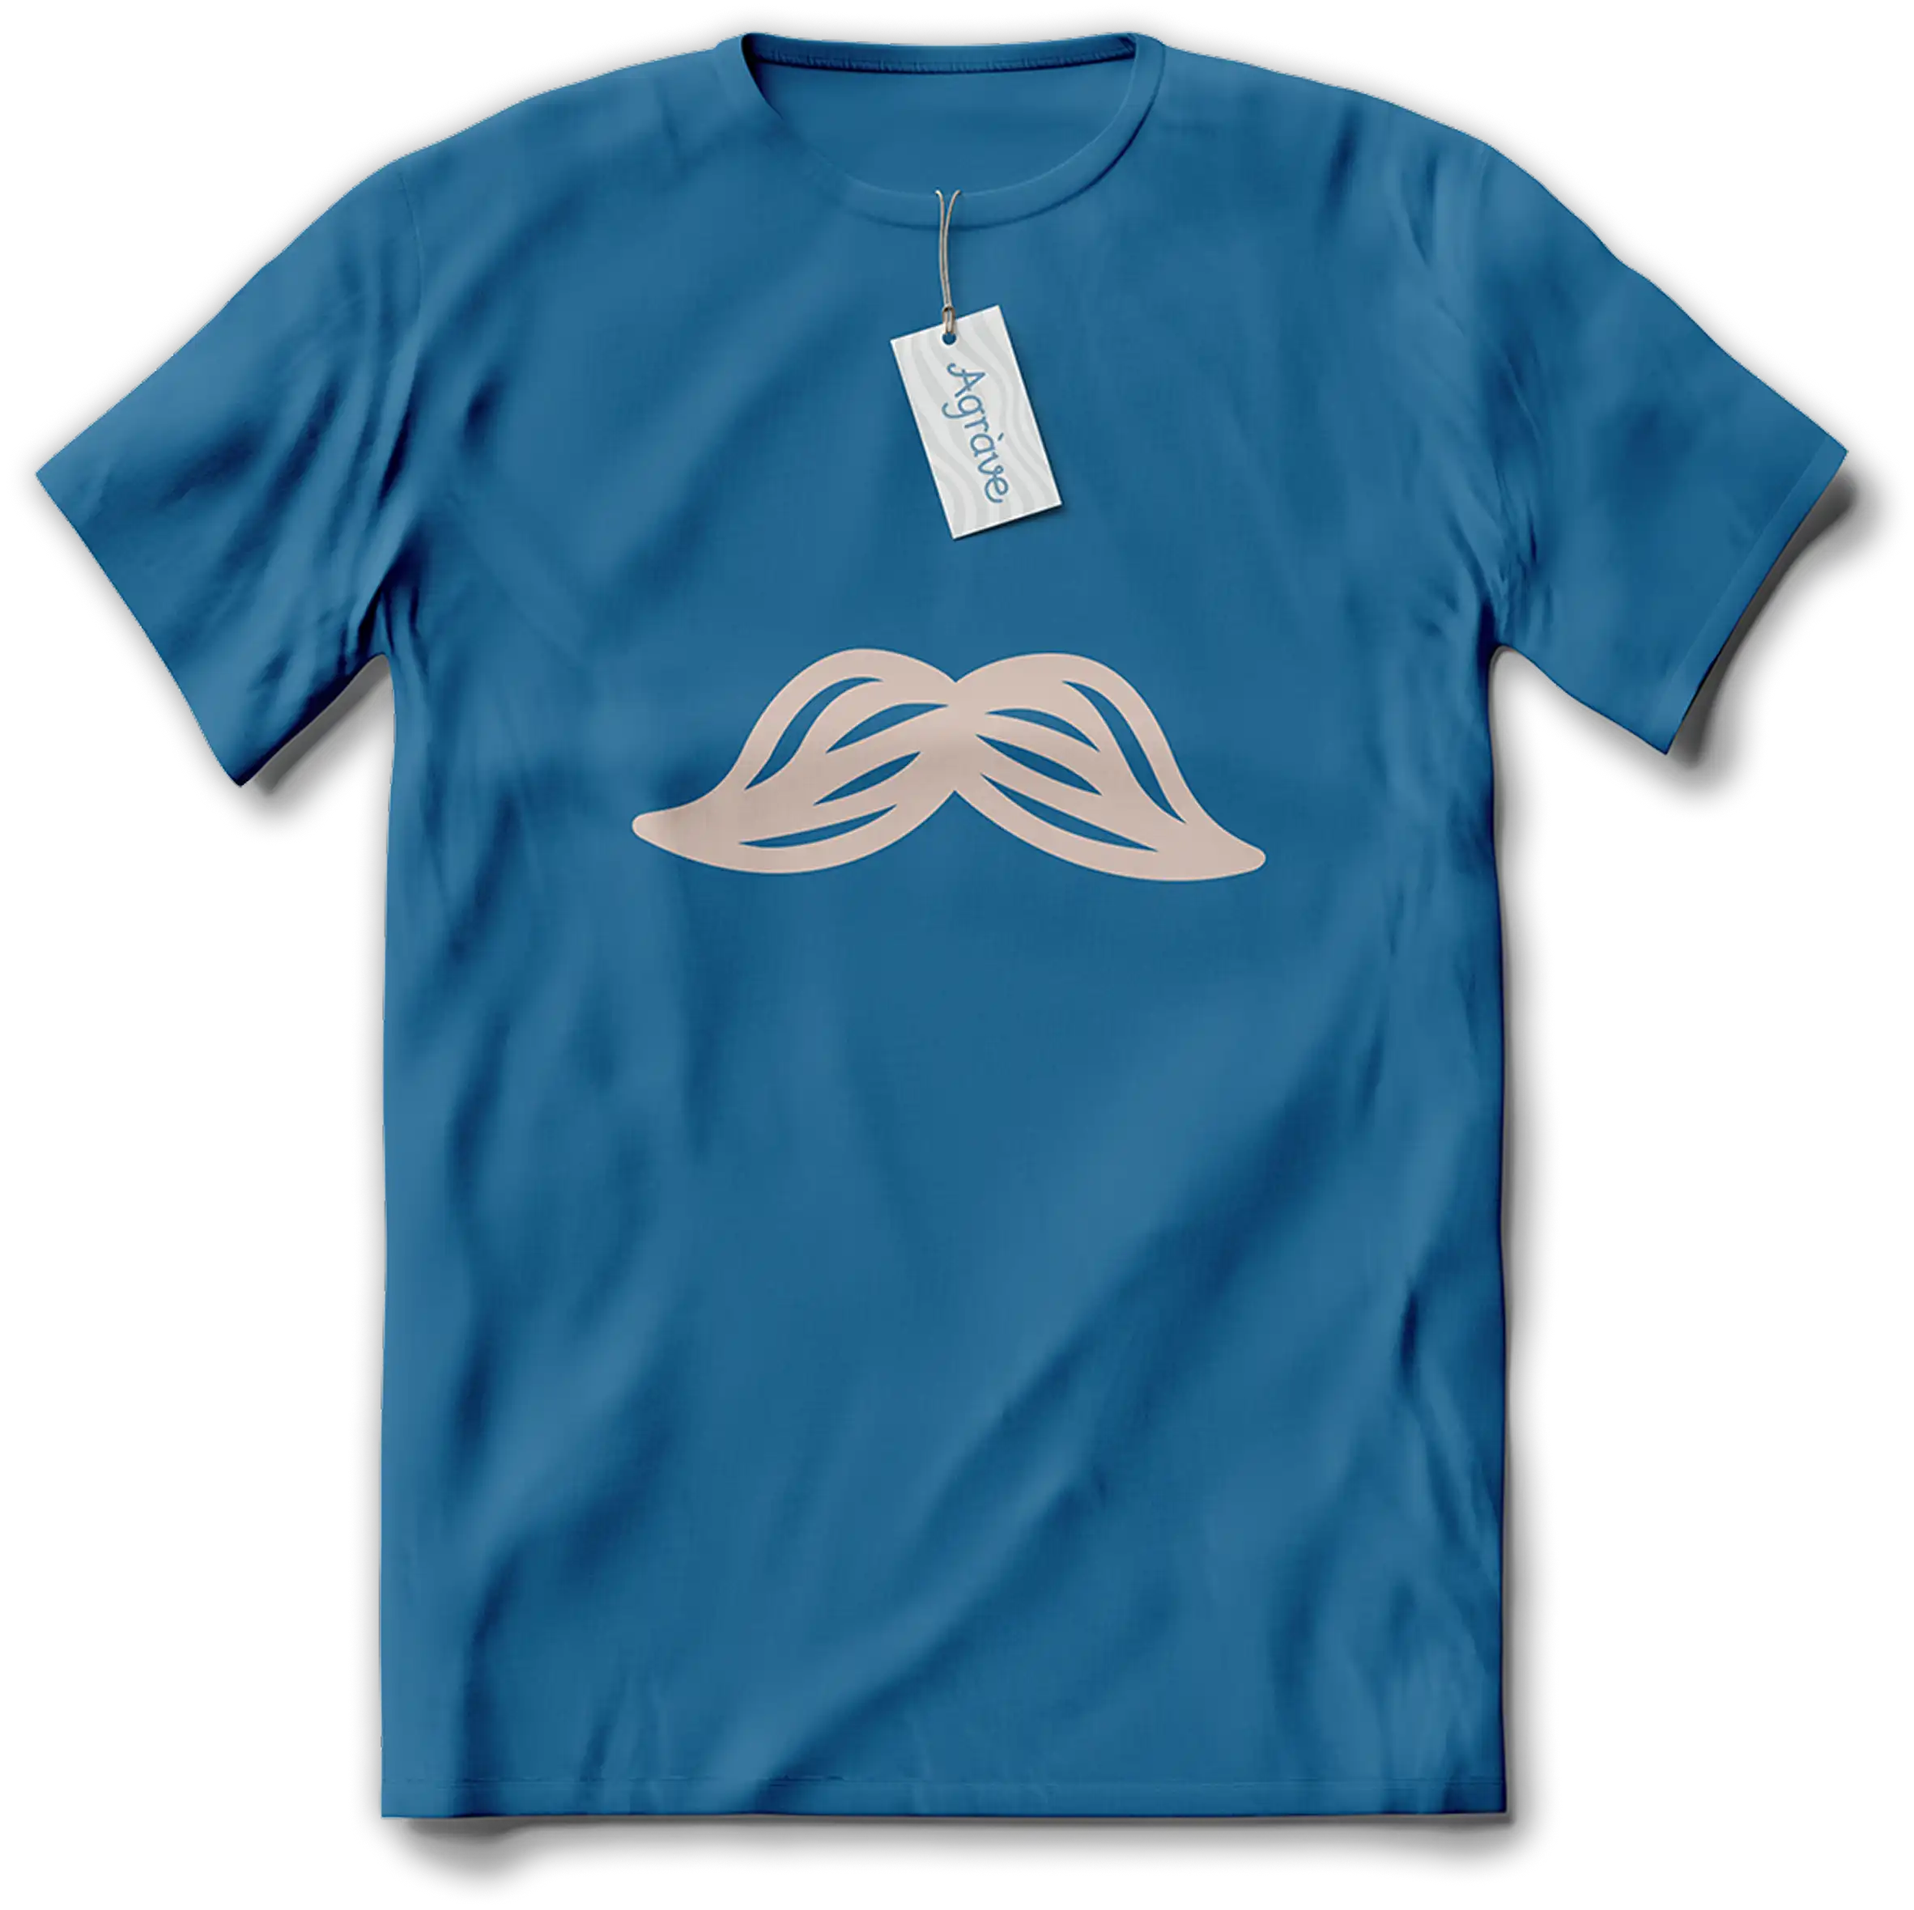
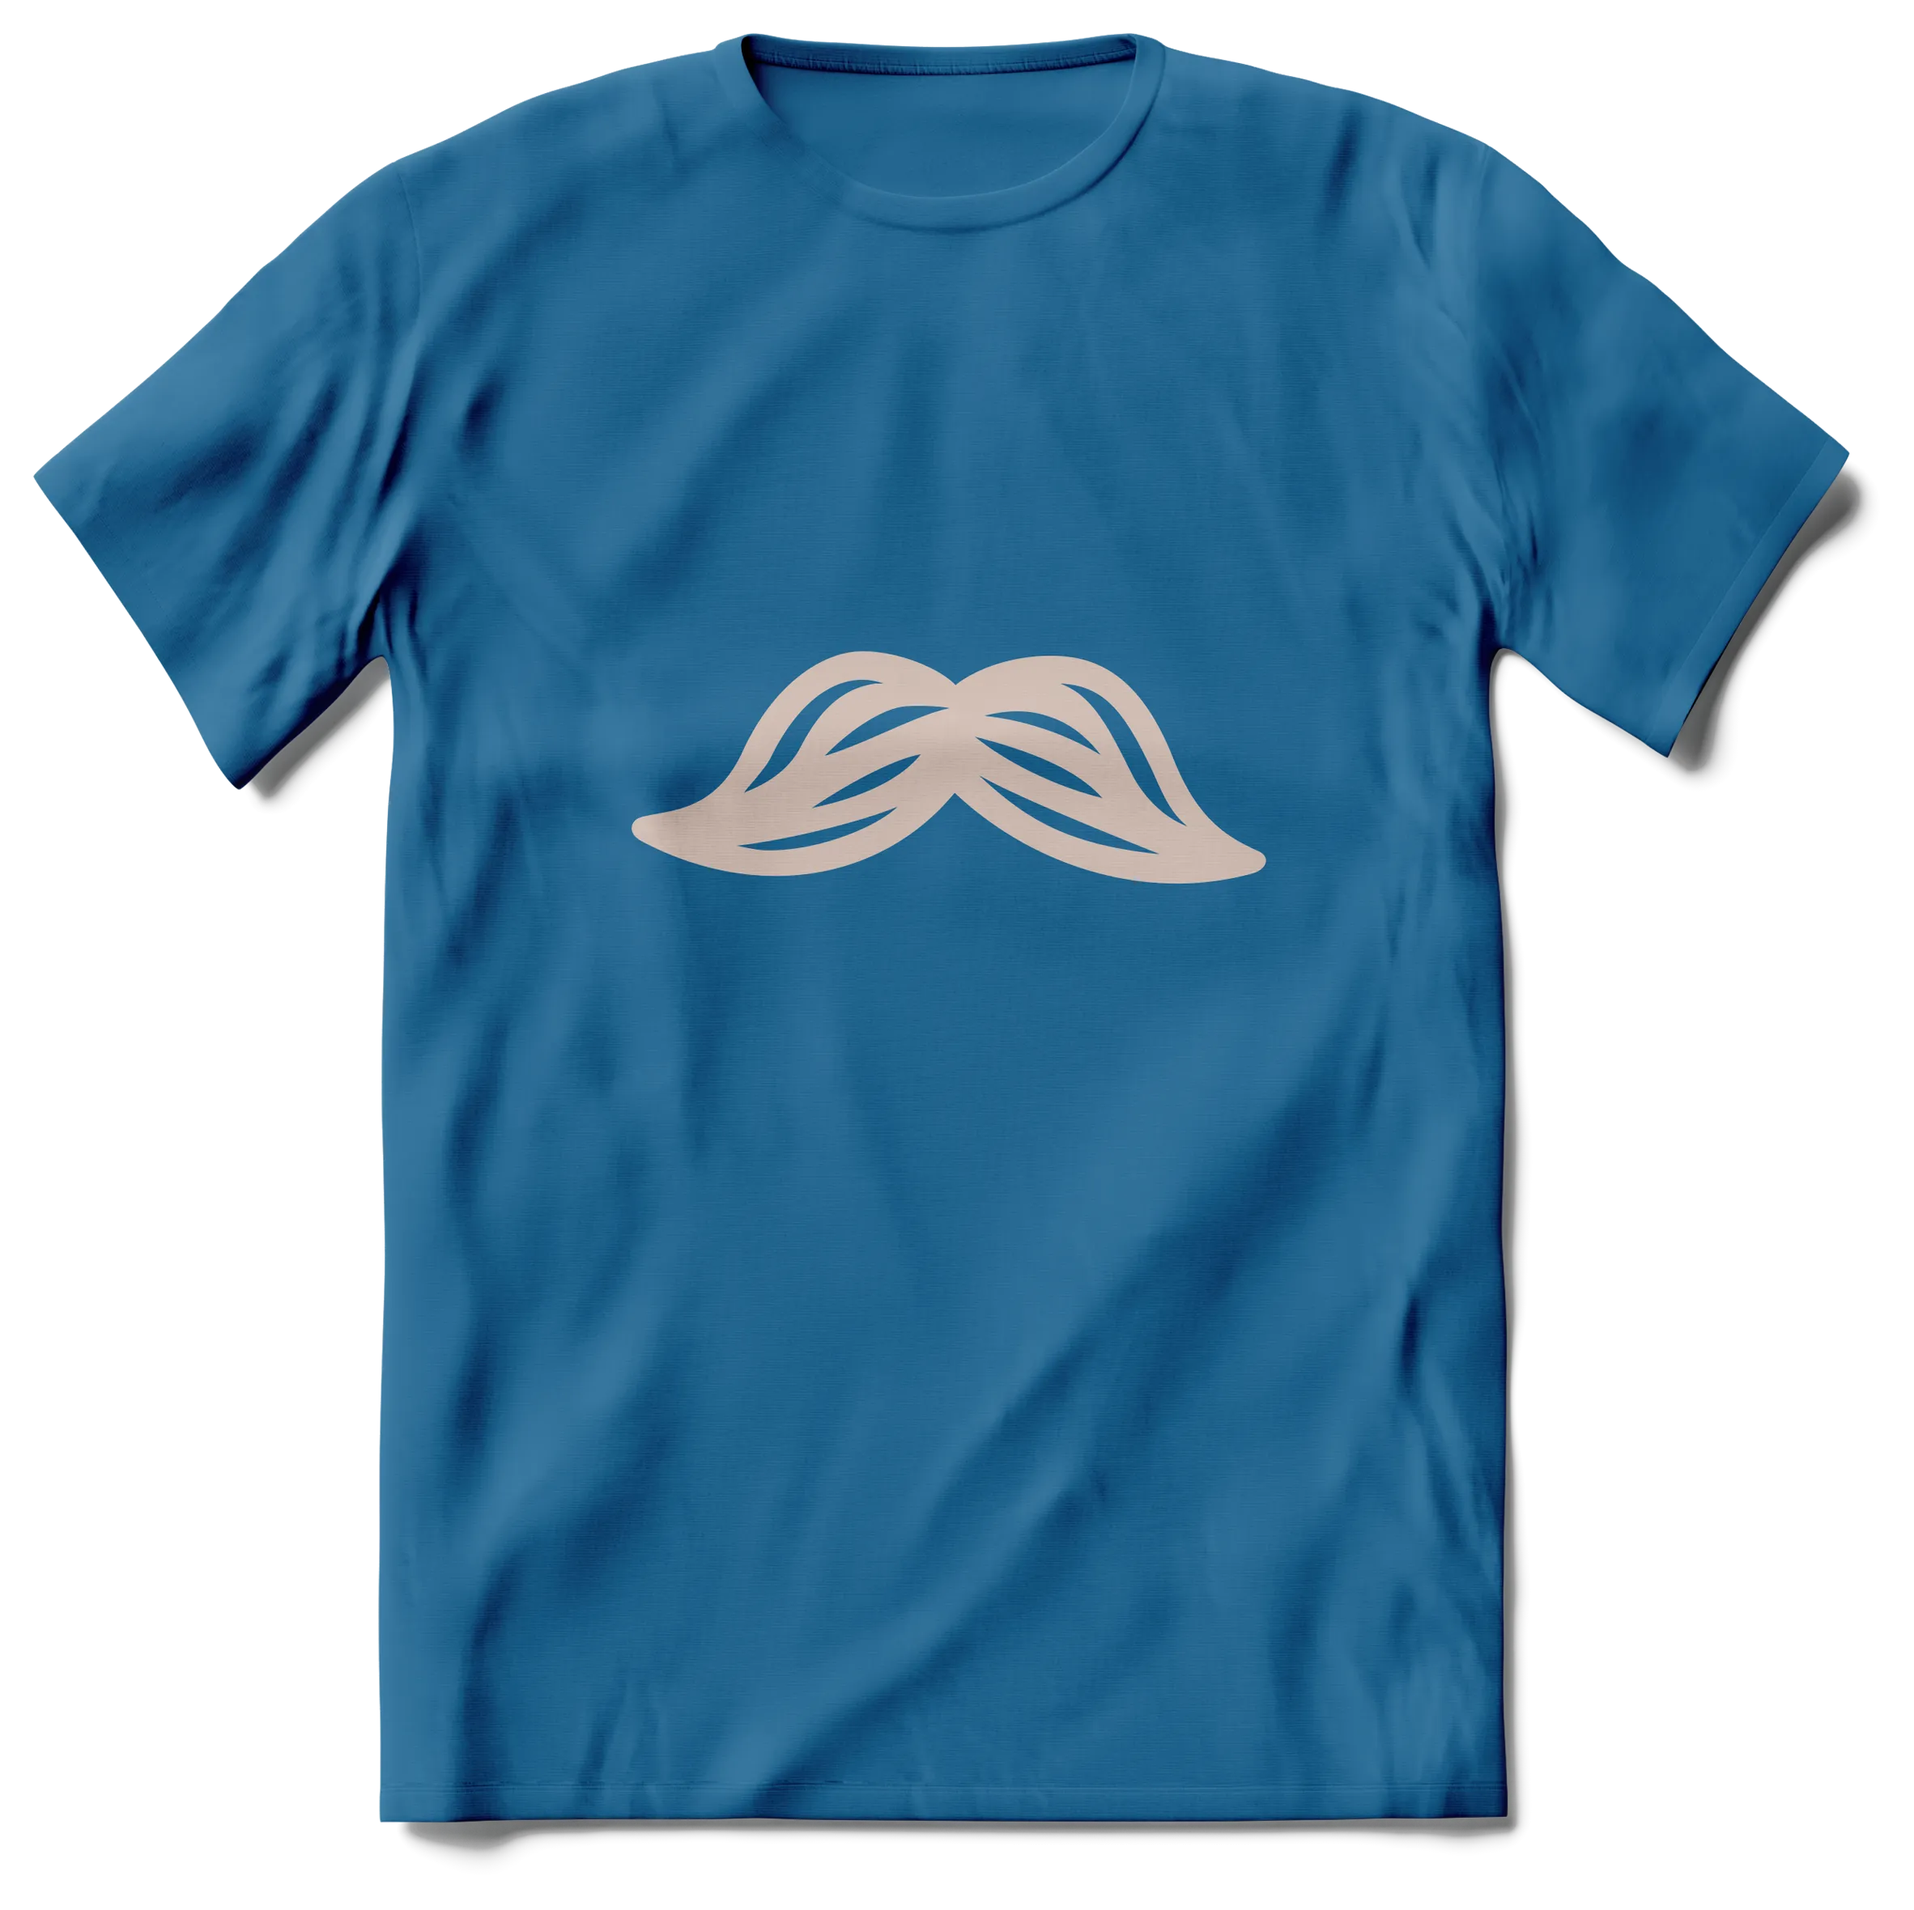
Update onepager
Update label on t-shirt to animate on scroll

diff --git a/docs/index.html b/docs/index.html
@@ -1157,6 +1157,25 @@
       margin-bottom: -120px;
       transform: translateY(75px);
     }
+    .glyphs-sec__shirt-img {
+      width: 100%;
+      height: auto;
+      display: block;
+    }
+    /* Positioned to match the hang tag's spot in the original shirt photo —
+       left/top/width are percentages of the shirt image's native 2364×2360px
+       so the tag stays pinned to the collar at any viewport width. */
+    .glyphs-sec__label {
+      position: absolute;
+      left: 43.994%;
+      top: calc(6.653% + 10px);
+      width: 14.382%;
+      height: auto;
+      /* Pivot at the top of the string (where it ties to the collar) so the
+         scroll-driven swing below rotates around a fixed point, not the tag's
+         own centre. */
+      transform-origin: 39.6% 6%;
+    }
 
     /* Mobile only: scale the shirt + script document images to 115%. Done via width
        (×1.15, height auto) rather than transform:scale, because both images have
@@ -2701,7 +2720,10 @@
         </div>
       </div>
     </div>
-    <img class="glyphs-sec__shirt" src="assets/t-shirt.webp" alt="Blue t-shirt featuring the Agrave Pro mustache glyph" />
+    <div class="glyphs-sec__shirt">
+      <img class="glyphs-sec__shirt-img" src="assets/t-shirt.webp" alt="Blue t-shirt featuring the Agrave Pro mustache glyph" />
+      <img class="glyphs-sec__label" src="assets/t-shirt-label.webp" alt="Agràve hang tag" />
+    </div>
     <div class="glyphs-sec__waves-clip">
       <svg class="glyphs-sec__waves" width="2078" height="1158" viewBox="0 0 2078 1158" preserveAspectRatio="xMidYMin meet" fill="none" aria-hidden="true" xmlns="http://www.w3.org/2000/svg">
 <path class="wave-band" data-i="0" d="M1270.17 926.661C1205.17 897.781 1124.52 881.928 1056.89 905.191C1047.8 908.335 1038.94 911.818 1030.38 915.683L1022.51 919.248L1014.91 922.721C891.585 979.243 816.287 1024.14 667.963 1028.17C519.639 1032.2 485.9 963.536 370.115 953.029C337.143 950.036 319.444 973.502 298.05 984.275C262.721 1002.07 234.396 1032.31 187.519 1039.75C140.32 1047.24 56.6219 1036.64 1.87598 1018.71L0 1018.09V1078.4C52.9815 1095.92 143.983 1101.93 188.686 1091.26C237.144 1079.69 263.618 1044.79 296.285 1024.11L298.344 1022.82C317.94 1010.83 330.34 987.371 367.671 991.388C477.544 1003.21 529.228 1107.23 667.963 1096.35C815.65 1085.12 901.064 1005.61 1030.16 947.302C1038.74 943.422 1047.63 940.075 1056.76 937.2C1124.92 915.83 1206.02 931.652 1269.73 960.693C1317.47 982.522 1346.19 1017.93 1385.91 1049.43C1400.52 1061.02 1415.96 1072.22 1431.94 1082.56C1493.6 1122.44 1560.9 1146.86 1624.09 1156.3C1677.37 1164.25 1732.05 1142.98 1785.04 1120.29L1788.78 1118.68C1798.66 1114.43 1808.58 1110.21 1818.41 1106.09L1825.76 1103.01L1835.5 1098.97L1841.73 1096.42C1880.99 1080.41 1916.6 1067.65 1954 1061.49V997.18C1910.85 1002.25 1869.67 1015.3 1824.76 1032.2C1812.21 1036.92 1799.66 1041.79 1787.43 1046.99L1767.89 1055.26L1763.1 1057.27L1758.32 1059.27C1713.67 1077.83 1669.65 1093.95 1626.71 1094.74C1565.23 1095.88 1500.44 1080.67 1435.95 1042.89C1419.89 1033.48 1404.11 1022.83 1388.9 1011.6C1348.94 982.116 1318.03 948.046 1270.17 926.661Z" fill="#F9F1EB"/>
@@ -5044,6 +5066,39 @@
         if (!ticking) { ticking = true; requestAnimationFrame(apply); }
       }, { passive: true });
       apply();
+    })();
+
+    // ── LABEL: directional swing on scroll ────────────────────────────────
+    // Scrolling down leans the tag left, scrolling up leans it right — the
+    // lean always tracks scroll direction and never crosses to the other
+    // side mid-gesture. It eases toward a target angle derived from a
+    // smoothed scroll velocity, and the target (and angle) relax back to 0
+    // once scrolling stops, so it settles without swinging past centre.
+    // Pivots at the string's top (see transform-origin above), never the
+    // shirt's own translateY, so the swing and the shirt drift compose cleanly.
+    (function () {
+      'use strict';
+      const label = document.querySelector('.glyphs-sec__label');
+      if (!label) return;
+      const IMPULSE = 0.6;          // scroll speed → lean strength
+      const VELOCITY_SMOOTH = 0.12; // smooths raw per-frame scroll delta into a velocity estimate
+      const ANGLE_EASE = 0.05;      // how quickly the tag eases toward the current lean (lower = slower swing)
+      const MAX_ANGLE = 24;         // degrees
+      let smoothVel = 0;
+      let angle = 0;
+      let lastY = window.scrollY;
+      function tick() {
+        const y = window.scrollY;
+        const rawDelta = y - lastY;
+        lastY = y;
+        smoothVel += (rawDelta - smoothVel) * VELOCITY_SMOOTH;
+        let target = -smoothVel * IMPULSE; // scroll down (positive) → lean left (negative)
+        target = Math.max(-MAX_ANGLE, Math.min(MAX_ANGLE, target));
+        angle += (target - angle) * ANGLE_EASE;
+        label.style.transform = 'rotate(' + angle.toFixed(2) + 'deg)';
+        requestAnimationFrame(tick);
+      }
+      requestAnimationFrame(tick);
     })();
 
     // ── SECTION 10: LIGATURES ANNOTATIONS ───────────────────────────────
